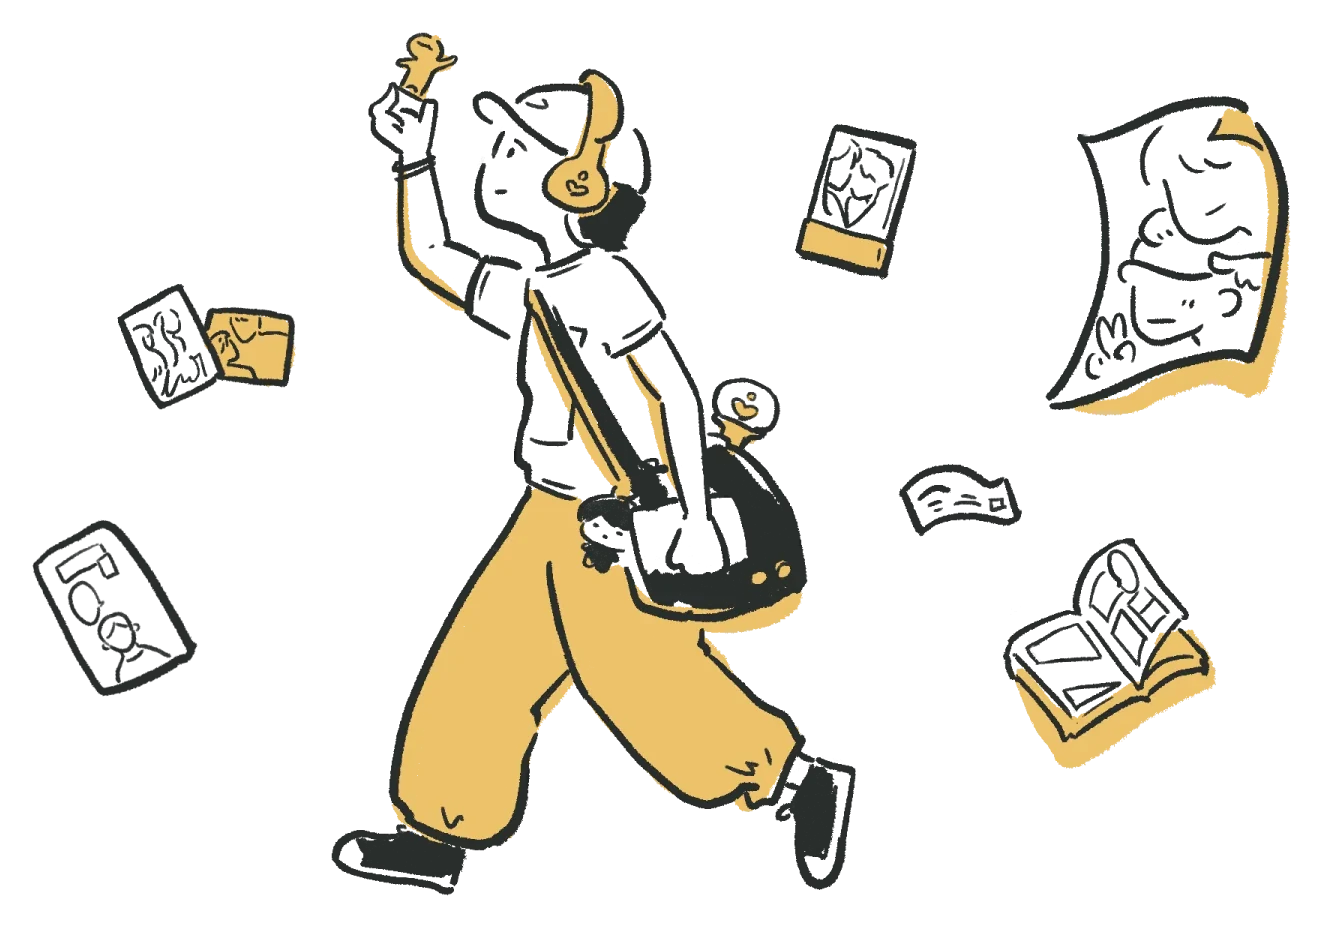
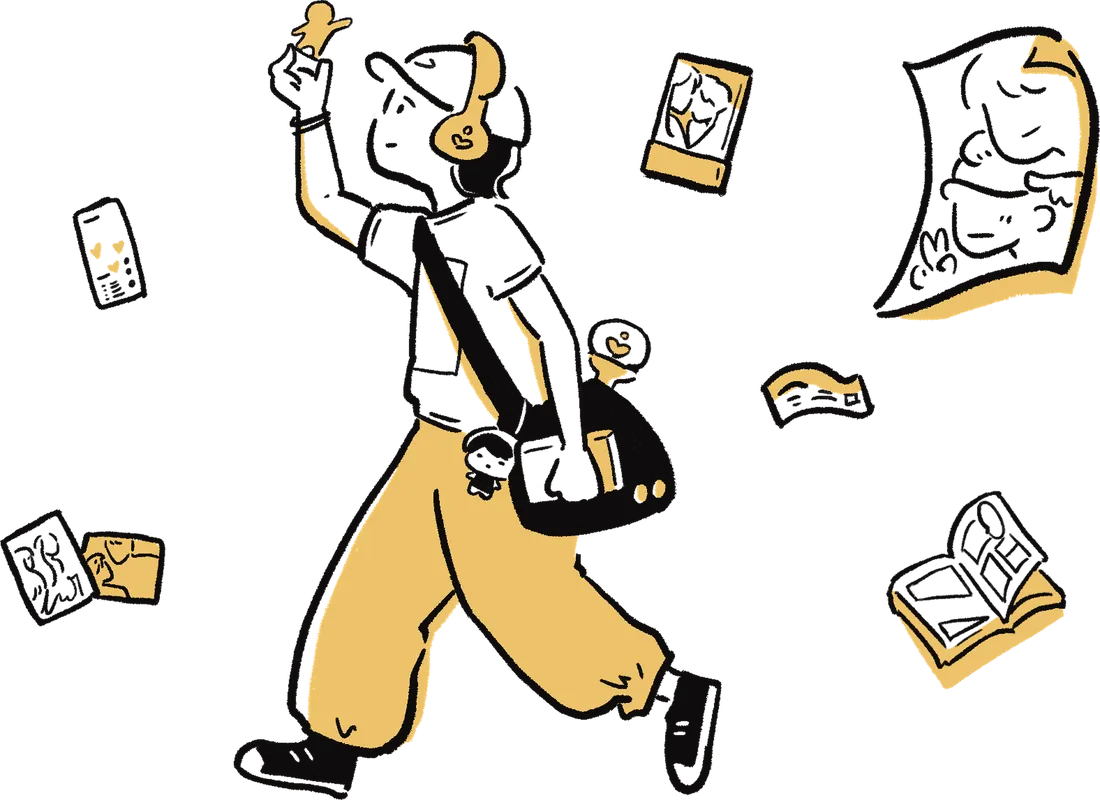
更新卡片插圖

diff --git a/index.html b/index.html
@@ -103,9 +103,8 @@
 
     <div class="col">
 
-      <p>我們常需要在有限的時間裡，快速理解市場與受眾。但當我們太快把人壓縮成標籤時，那些真正影響行為的因素，反而無法被看見。</p>
-
-      <p class="care__turn">我目前關心以下議題：</p>
+      <p>我們能觀察到人們做了什麼，卻不一定清楚，背後的原因與動機。</p>
+      <p>透過訪談與研究，我深度挖掘那些人們沒有直接說出口的感受，幫團隊重新看見問題，也找到後續值得發展的方向。目前，我持續與團隊探索這些問題：</p>
 
       <ol class="threads">
         <li>
@@ -191,14 +190,14 @@
     </dl>
 
     <!-- 收乾之後圓裡剩下的那一句。刻意斷成兩行、兩道螢光筆（第二道是反相位的
-         .mark--b，相鄰兩筆不會長得一樣）：交給自動斷行會斷在「我看／見」中間。 -->
+         .mark--b，相鄰兩筆不會長得一樣）：交給自動斷行會斷在詞中間。 -->
     <p class="vfield__say">
-      <span class="vfield__say-l"><mark class="mark">在不同產業當中，</mark></span>
-      <span class="vfield__say-l"><mark class="mark mark--b">我看見共同的人性需求</mark></span>
+      <span class="vfield__say-l"><mark class="mark">看見真實的需求，</mark></span>
+      <span class="vfield__say-l"><mark class="mark mark--b">轉化為未來體驗策略</mark></span>
     </p>
 
     <!-- 收斂後，由圓心向外展開的共同需求；手機與減少動態效果時直接閱讀。 -->
-    <ul class="vfield__needs" aria-label="共同的人性需求">
+    <ul class="vfield__needs" aria-label="真實的需求">
       <li class="vfield__need"><span>被理解</span></li>
       <li class="vfield__need"><span>被看見</span></li>
       <li class="vfield__need"><span>想確認<br>自己的選擇是對的</span></li>
@@ -242,11 +241,11 @@
             <span class="case__top"><span class="case__no">CASE 01</span><span class="case__featured-label">FEATURED / 完整研究報告</span></span>
             <div class="case__featured-copy">
               <h3 class="case__q" id="case-bl-gl-title">解碼 BL 與百合的<mark class="mark">情感經濟</mark></h3>
-              <p class="case__featured-desc">從 886 位粉絲的回答，理解一份喜歡如何形成情感、行動與消費。</p>
+              <p class="case__featured-desc">從 886 位粉絲的問卷填答，理解粉絲的情感、行動與消費</p>
             </div>
-            <img class="case__art" src="assets/img/cases/bl-gl-report.webp" alt="" width="1323" height="928" loading="lazy" decoding="async">
+            <img class="case__art" src="assets/img/cases/bl-gl-report.webp" alt="" width="1100" height="800" loading="lazy" decoding="async">
             <span class="case__foot">
-              <span class="case__report-cta" id="case-bl-gl-link-hint">閱讀完整報告<span class="case__new-tab">另開分頁</span></span>
+              <span class="case__report-cta" id="case-bl-gl-link-hint">閱讀完整專題<span class="case__new-tab">前往專題網站</span></span>
               <span class="case__more" aria-hidden="true">↗</span>
             </span>
           </a>
@@ -419,7 +418,7 @@
              loading="lazy" decoding="async">
 
         <div class="colophon__body">
-          <p class="lead">研究、教學，以及公開分享。</p>
+          <p class="lead">Mei 的研究、教學，以及公開分享經驗</p>
 
           <dl class="counters">
             <div class="counters__item">
@@ -444,14 +443,14 @@
           <p class="cv__when">2024 — Present</p>
           <div class="cv__what">
             <h4>獨立研究者／體驗策略研究顧問</h4>
-            <p>研究與策略顧問、自主研究、教學與研究陪跑。</p>
+            <p>研究與策略顧問、自主研究、教學與研究陪跑</p>
           </div>
         </li>
         <li class="cv__row">
           <p class="cv__when">2019 — 2024</p>
           <div class="cv__what">
             <h4>UX 研究員／研究副總監</h4>
-            <p>曾任體驗顧問公司研究副總監，參與並帶領跨產業研究與策略專案。</p>
+            <p>曾任體驗顧問公司研究副總監，參與並帶領跨產業研究與策略專案</p>
           </div>
         </li>
       </ol>
@@ -459,7 +458,7 @@
       <section class="teaching" id="teaching" aria-labelledby="teaching-title">
         <header class="teaching__header">
           <h3 id="teaching-title">教學與分享</h3>
-          <p>除了研究與顧問，我也透過演講、工作坊與教學，把研究過程中累積的方法與觀察整理出來，和不同領域的人一起交流。</p>
+          <p>除了研究與顧問，我也透過演講、工作坊與教學，把研究過程中累積的方法與觀察整理出來，和不同領域的人一起交流</p>
         </header>
 
         <ul class="teaching__topics" aria-label="教學主題">

diff --git a/docs/DESIGN.md b/docs/DESIGN.md
@@ -276,7 +276,7 @@ Hero 7.2%  →  我關心什麼 4.7%（密）  →  ▓ 收斂場 13.4%（破）
 
 | motion | 語意 |
 |---|---|
-| 27 個關鍵字往中心收、退成背景，只剩一句 | 跨產業 → 共同的人性需求 |
+| 27 個關鍵字往中心收、退成背景，只剩一句 | 真實需求 → 未來體驗策略 |
 | 巨大的「我」退開、巨大的「你」接上來 | 敘事主體轉換 |
 | 展開案例後，teal-tint 從左往右刷過翻轉那一片 | 翻轉就是她會畫線的那一句（螢光筆放大成一整片） |
 | sticky 的「人 ×」不動，只換後面那個詞 | 三個方向共用同一個中心 |
@@ -445,7 +445,7 @@ MOMENT 03 那一屏**刻意不放插圖**：「？」自己就是那裡的圖形
 所以這一版的 visual concept 是一句話：
 **五個領域串在同一顆圓的軌道上，讀完之後一起收回圓心，圓裡的提問被換成那一句。**
 圓從頭到尾都在，只是一開始它問「我曾走過的研究現場」，最後它答
-「在不同產業當中，我看見共同的人性需求」。motion 不是進場效果，就是那句話本身。
+「看見真實的需求，轉化為未來體驗策略」。motion 不是進場效果，就是那句話本身。
 
 ### 幾何全部用 `cqh`，不用 `vh` 也不用 `%`
 
@@ -485,8 +485,8 @@ MOMENT 03 那一屏**刻意不放插圖**：「？」自己就是那裡的圖形
 
 ### 那一句刻意斷成兩行
 
-`在不同產業當中，` ／ `我看見共同的人性需求`，兩個 `<mark>`（第二個是反相位的 `.mark--b`）。
-交給自動斷行會斷在「我看／見」中間——18 個漢字不管給幾 em 都湊不出好的斷點。
+`看見真實的需求，` ／ `轉化為未來體驗策略`，兩個 `<mark>`（第二個是反相位的 `.mark--b`）。
+交給自動斷行會斷在詞中間——17 個漢字不管給幾 em 都湊不出好的斷點。
 寫死兩行的代價是手機上也是兩行，但那正好也是對的。
 
 ### 領域 SVG 圖示（2026-09-08 更新）
